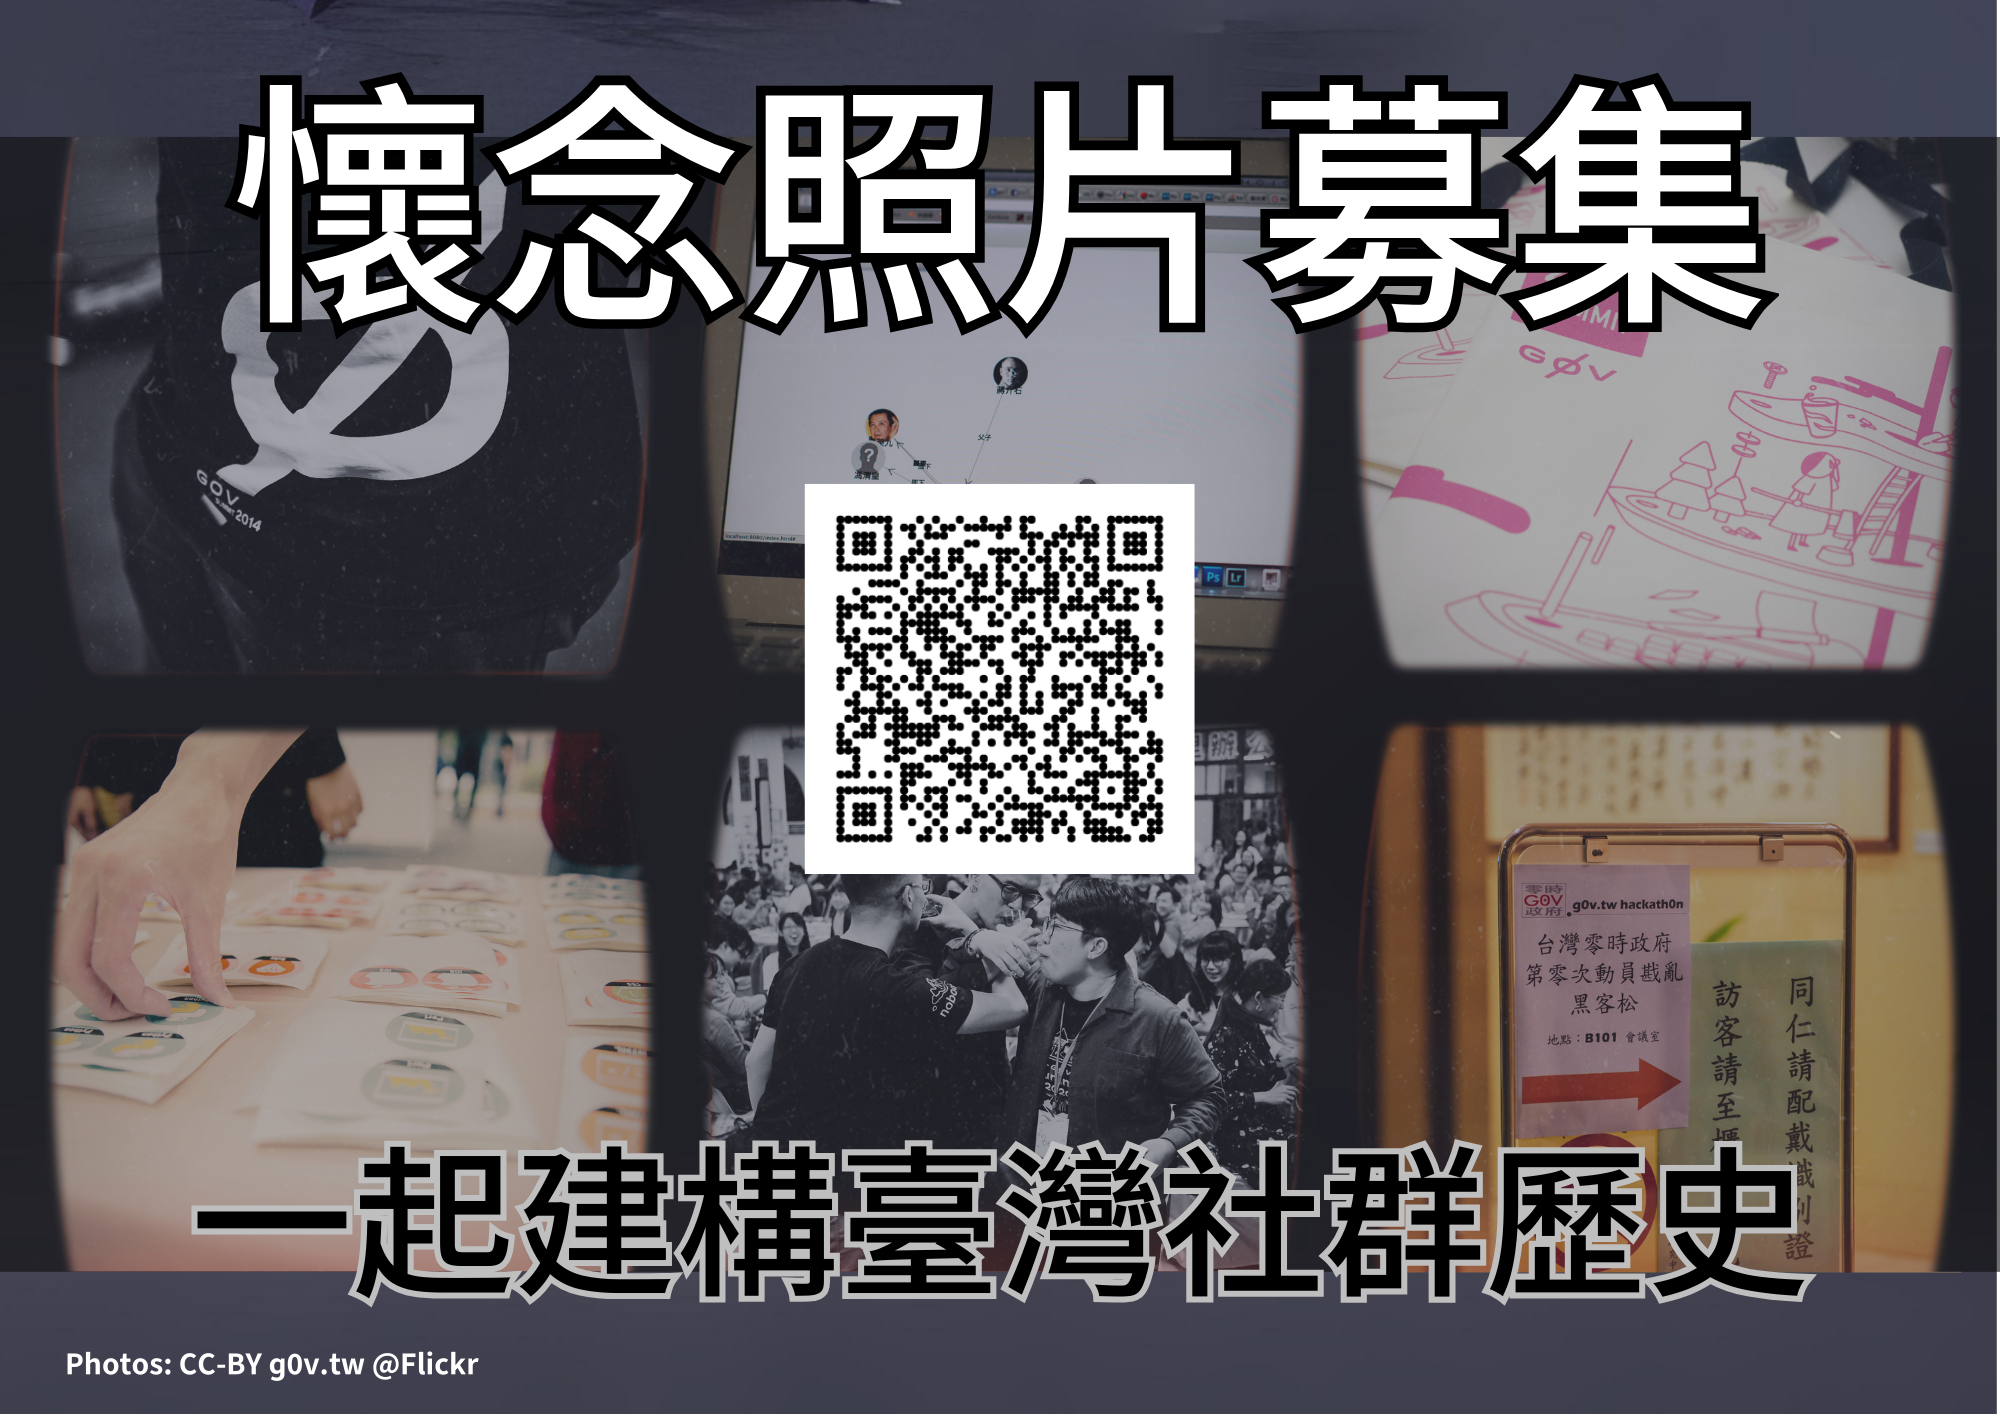
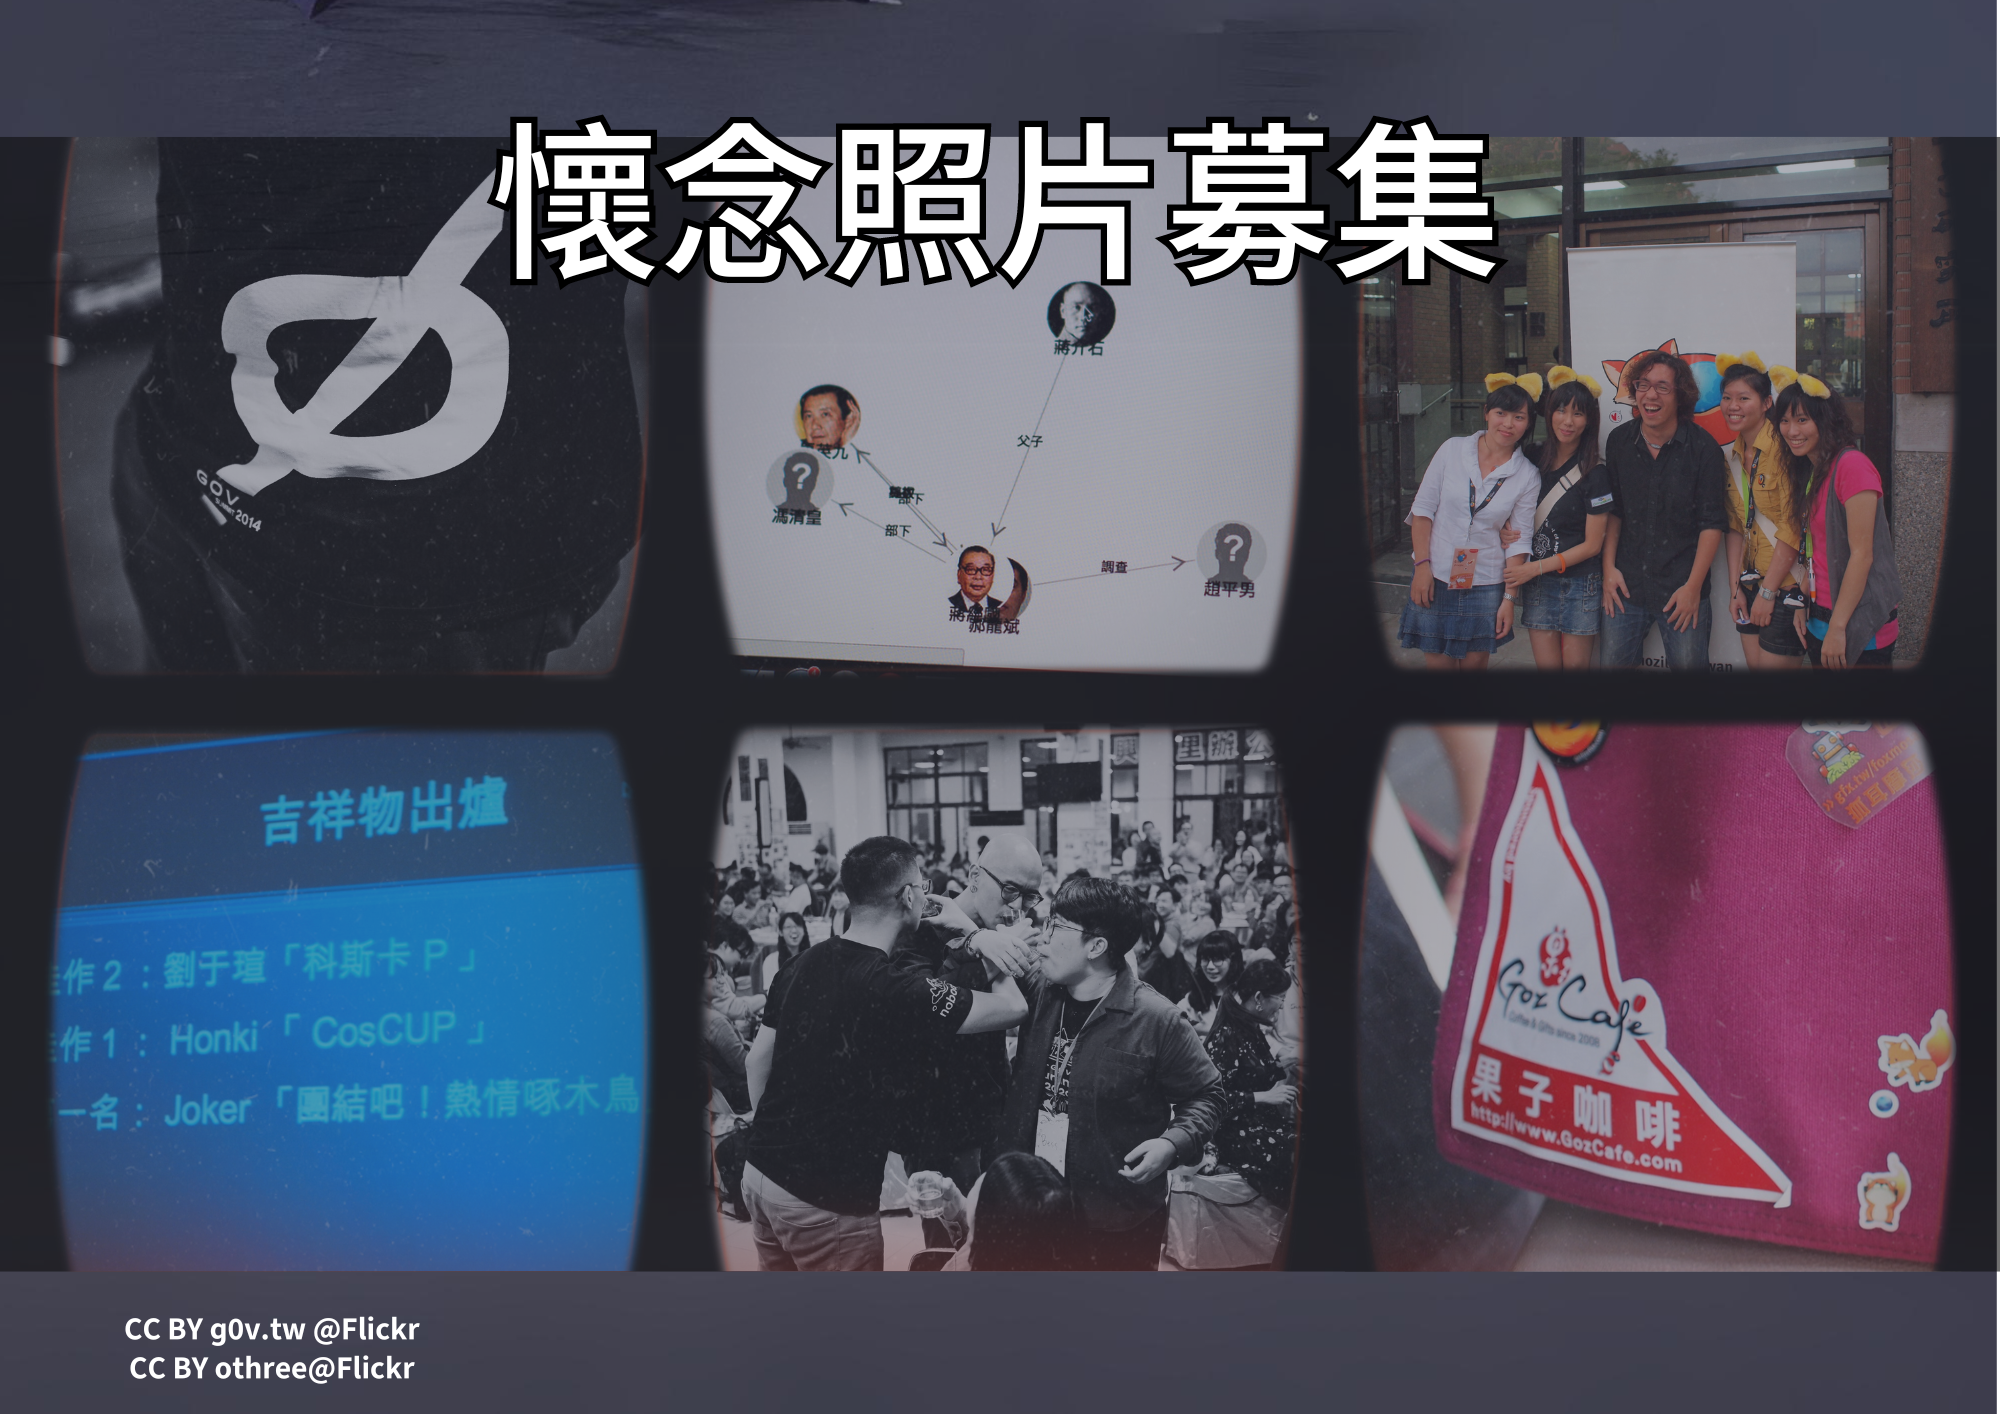
修改RWD, 修改招募圖片, 修改輪播issue

diff --git a/index.html b/index.html
@@ -31,17 +31,14 @@
     <!-- section2 -->
     <section class="main-content">
       <div class="content-2">
+        <div class="text-area">
+          <img src="./media/img/2.png" alt="homePageimg1" class="swiper-img" />
+        </div>
+
         <div class="swiper-group">
           <div class="swiper-container">
             <div class="swiper-wrapper">
               <!-- 插入每個swiper slide -->
-              <div class="swiper-slide">
-                <img
-                  src="./media/img/2.png"
-                  alt="homePageimg1"
-                  class="swiper-img"
-                />
-              </div>
 
               <div class="swiper-slide">
                 <img
@@ -72,11 +69,30 @@
 
     <!-- section3 -->
     <section class="bottom">
-      <img src="./media/img/raise.png" alt="" id="targetImage" />
+      <!-- <img src="./media/img/raise.png" alt="" id="targetImage" /> -->
+      <a
+        data-flickr-embed="true"
+        data-header="true"
+        data-footer="true"
+        class="flickr"
+        href="https://www.flickr.com/photos/ocftw/albums/72177720309849117"
+        title="OCF x Sāngs Taipei 跨界藝術夏日派對"
+      >
+        <img
+          src="https://live.staticflickr.com/65535/53054674113_728670779c_z.jpg"
+          class="flickr-img"
+          alt="OCF x Sāngs Taipei 跨界藝術夏日派對"
+        />
+      </a>
     </section>
   </body>
   <!-- 引入Swiper的JavaScript -->
   <script src="https://unpkg.com/swiper/swiper-bundle.min.js"></script>
+  <script
+    async
+    src="//embedr.flickr.com/assets/client-code.js"
+    charset="utf-8"
+  ></script>
   <script>
     // 初始化Swiper
     var swiper = new Swiper(".swiper-container", {
@@ -84,7 +100,7 @@
       spaceBetween: 0,
       loop: true,
       autoplay: {
-        delay: 2000,
+        delay: 3000,
         disableOnInteraction: false,
       },
       centeredSlides: false,
@@ -92,11 +108,11 @@
       speed: 2000,
     });
 
-    let targetImage = document.getElementById("targetImage");
+    // let targetImage = document.getElementById("targetImage");
 
-    targetImage.addEventListener("click", function () {
-      window.location.href = "https://forms.gle/NuRLZanWuq7QuqUX8";
-    });
+    // targetImage.addEventListener("click", function () {
+    //   window.location.href = "https://forms.gle/NuRLZanWuq7QuqUX8";
+    // });
 
     // 檢測是否為手機或平板
     function isMobileOrTablet() {

diff --git a/style/mystyle.scss b/style/mystyle.scss
@@ -162,6 +162,7 @@ body {
   height: 100vh;
   @include px820 {
     height: fit-content;
+    width: 100%;
   }
 }
 
@@ -170,38 +171,50 @@ body {
   height: 100vh;
   display: flex;
   // padding: 1.5rem 0;
+  justify-content: space-around;
 
   @include px820 {
-    height: 45vh;
+    height: 90vh;
+    flex-direction: column;
+    justify-content: unset;
   }
 }
 
 .swiper-group {
-  width: 100%;
-
-  // @include px820 {
-  //   width: 80%;
-  //   // margin: 1rem 0;
-  // }
-
-  // @include px768 {
-  //   width: 100%;
-  //   // margin: 1.5rem 0;
-  // }
-}
-
-.text-area {
-  width: 45%;
-  display: flex;
-  align-items: center;
-  justify-content: center;
+  width: 47%;
+  margin: auto 0;
 
   @include px820 {
-    width: 80%;
+    width: 100%;
+    margin: 0;
+    // margin: 1rem 0;
   }
 
   @include px768 {
     width: 100%;
+    justify-content: unset;
+    align-items: unset;
+    // margin: 1.5rem 0;
+  }
+}
+
+.text-area {
+  width: 47%;
+  display: flex;
+  flex-direction: column;
+  justify-content: center;
+  align-items: center;
+
+  @include px820 {
+    display: block;
+    width: 100%;
+    height: 45vh;
+  }
+
+  @include px768 {
+    display: block;
+    width: 100%;
+    height: 45vh;
   }
 
   p {
@@ -216,7 +229,19 @@ body {
 
 .swiper-img {
   width: 100%;
-  height: 100vh;
+  height: 80vh;
+  border-radius: 10px;
+  // border-radius: 40px;
+
+  @include px820 {
+    width: 100%;
+    height: 45vh;
+  }
+}
+
+.flicke-img {
+  width: 100%;
+  height: 80vh;
   // border-radius: 40px;
 
   @include px820 {
@@ -227,6 +252,8 @@ body {
 
 .bottom {
   height: 100vh;
+  width: 100vw;
+
   display: flex;
   flex-direction: column;
   align-items: center;
@@ -235,17 +262,19 @@ body {
   background-color: #e5e4e4;
 
   @include px820 {
-    height: fit-content;
+    // height: fit-content;
+    height: 60vh;
+    width: 100%;
   }
 
   img {
-    width: 100%;
+    width: 90vw;
 
-    height: 100%;
-    // border-radius: 50px;
+    height: 80vh;
     cursor: pointer;
 
     @include px820 {
+      width: 100%;
       height: 45vh;
     }
   }
@@ -265,6 +294,15 @@ body {
     }
   }
 }
+
+// .flickr {
+//   width: 80vw;
+//   height: 60px;
+
+//   @include px820 {
+//     width: 100vw;
+//   }
+// }
 
 video {
   border-radius: 50px;

diff --git a/style/mystyle.css b/style/mystyle.css
@@ -171,6 +171,7 @@ body {
   .main-content {
     height: -moz-fit-content;
     height: fit-content;
+    width: 100%;
   }
 }
 
@@ -178,31 +179,53 @@ body {
   width: 100%;
   height: 100vh;
   display: flex;
+  justify-content: space-around;
 }
 @media (max-width: 820px) {
   .content-2 {
-    height: 45vh;
+    height: 90vh;
+    flex-direction: column;
+    justify-content: unset;
   }
 }
 
 .swiper-group {
-  width: 100%;
+  width: 47%;
+  margin: auto 0;
+}
+@media (max-width: 820px) {
+  .swiper-group {
+    width: 100%;
+    margin: 0;
+  }
+}
+@media (max-width: 768px) {
+  .swiper-group {
+    width: 100%;
+    justify-content: unset;
+    align-items: unset;
+  }
 }
 
 .text-area {
-  width: 45%;
+  width: 47%;
   display: flex;
-  align-items: center;
+  flex-direction: column;
   justify-content: center;
+  align-items: center;
 }
 @media (max-width: 820px) {
   .text-area {
-    width: 80%;
+    display: block;
+    width: 100%;
+    height: 45vh;
   }
 }
 @media (max-width: 768px) {
   .text-area {
+    display: block;
     width: 100%;
+    height: 45vh;
   }
 }
 .text-area p {
@@ -216,7 +239,8 @@ body {
 
 .swiper-img {
   width: 100%;
-  height: 100vh;
+  height: 80vh;
+  border-radius: 10px;
 }
 @media (max-width: 820px) {
   .swiper-img {
@@ -225,8 +249,20 @@ body {
   }
 }
 
+.flicke-img {
+  width: 100%;
+  height: 80vh;
+}
+@media (max-width: 820px) {
+  .flicke-img {
+    width: 100%;
+    height: 45vh;
+  }
+}
+
 .bottom {
   height: 100vh;
+  width: 100vw;
   display: flex;
   flex-direction: column;
   align-items: center;
@@ -235,17 +271,18 @@ body {
 }
 @media (max-width: 820px) {
   .bottom {
-    height: -moz-fit-content;
-    height: fit-content;
+    height: 60vh;
+    width: 100%;
   }
 }
 .bottom img {
-  width: 100%;
-  height: 100%;
+  width: 90vw;
+  height: 80vh;
   cursor: pointer;
 }
 @media (max-width: 820px) {
   .bottom img {
+    width: 100%;
     height: 45vh;
   }
 }
